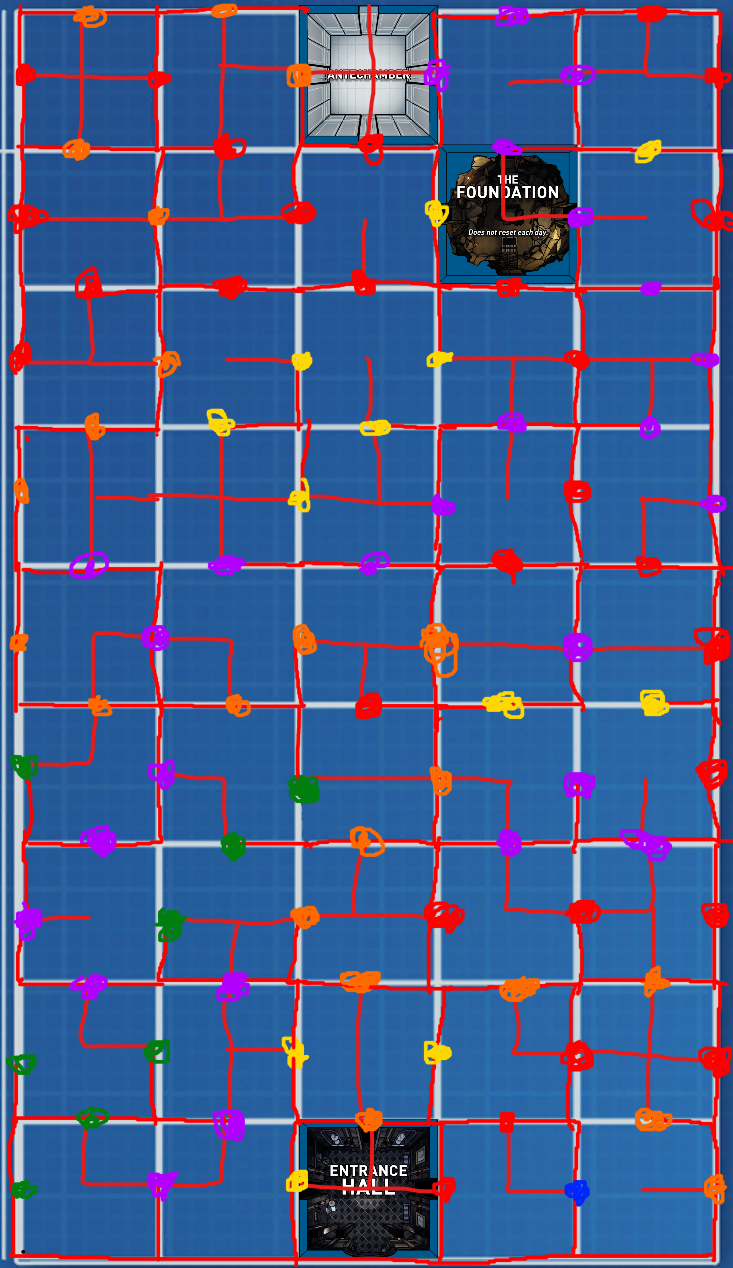
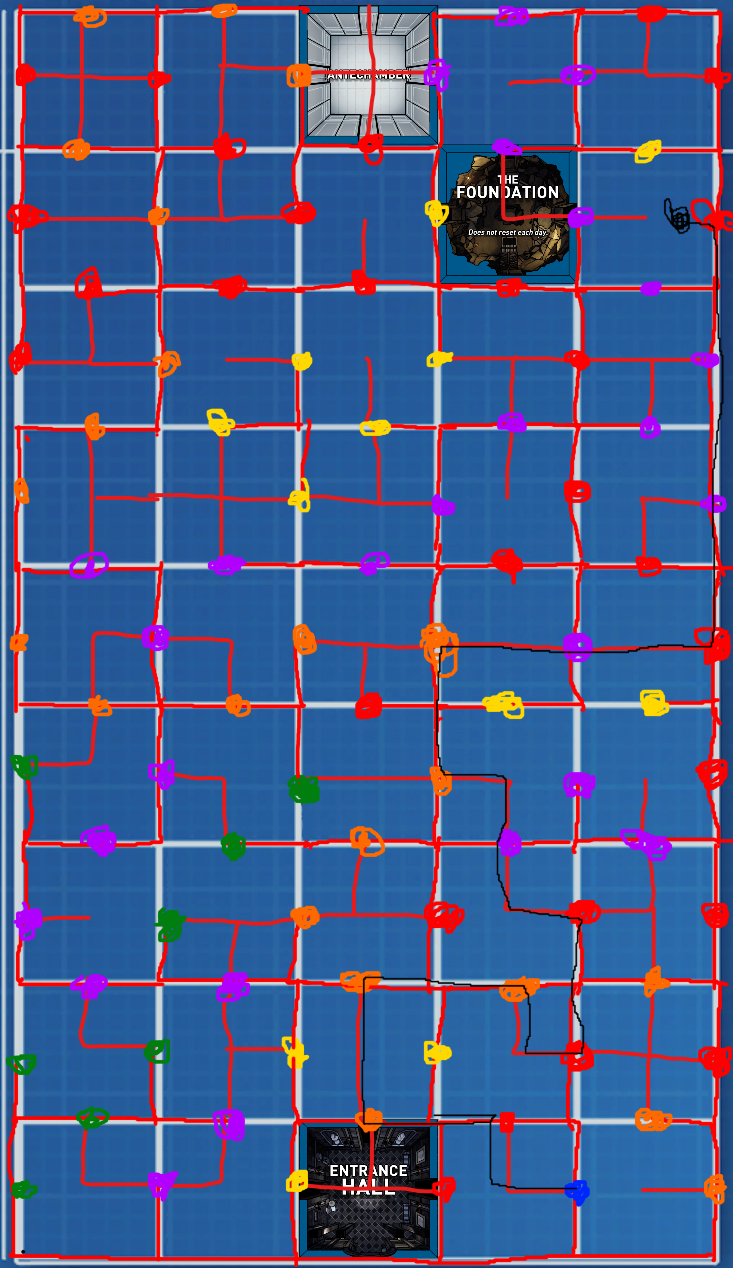
vault backup: 2025-05-30 02:44:58

diff --git a/Areas/Outside/The Atelier.md b/Areas/Outside/The Atelier.md
@@ -19,18 +19,6 @@ Room layout:
 | solarium       | Hallway        | Dining room        | Observatory     | East wing hallway |
 | Bedroom        | Drawing room   | gallery            | Library         | Cloister          |
 | Conservatory   | Maid's Chamber | Entrance hall      | Pantry          | Storeroom         |
-Words in mora jai boxes:
-
-| Through | Lantern | Light  | In     | Sketches |
-| ------- | ------- | ------ | ------ | -------- |
-| Cast    | A       | Tint   | Of     | Truth    |
-| To      | Find    | Our    | Path   | A        |
-| Hue     | Of      | Wisdom | To     | Turn     |
-| Us      | Right   | A      | Shade  | Of       |
-| Rain    | To      | Pass   | The    | Light    |
-| through | lantern | Light  | In     | Shadows  |
-| Past    | We      | Seek   | What's | Left     |
-| of      | the     | Lies   | We     | Cast     |
 
 Room door openings:
 
@@ -57,4 +45,29 @@ New letter differences:
 | horse | m   |     |     |     |
 |       | e   | w   | A   |     |
 | b     | l   | e   |     |     |
+Words in mora jai boxes:
+
+| Through | Lantern | Light  | In     | Sketches |
+| ------- | ------- | ------ | ------ | -------- |
+| Cast    | A       | Tint   | Of     | Truth    |
+| To      | Find    | Our    | Path   | A        |
+| Hue     | Of      | Wisdom | To     | Turn     |
+| Us      | Right   | A      | Shade  | Of       |
+| Rain    | To      | Pass   | The    | Light    |
+| through | lantern | Light  | In     | Shadows  |
+| Past    | We      | Seek   | What's | Left     |
+| of      | the     | Lies   | We     | Cast     |
+
+Wisdom = [[Corarica]] = Orange = Right
+Rain = [[Eraja]] = Violet/purple = Straight?
+Lies = red = left
+
 ![[Full blueprints layout.png]]
+When following the path you enter room 46
+it has a [[Mora Jai Box]] with the word "BLUE"
+And "the last will and testament of me, The Baroness Auravei"
+![[Pasted image 20250530024025.png]]
+![[Pasted image 20250530024058.png]]
+![[Pasted image 20250530024219.png]]
+![[Pasted image 20250530024334.png]]
+![[Pasted image 20250530024456.png]]
